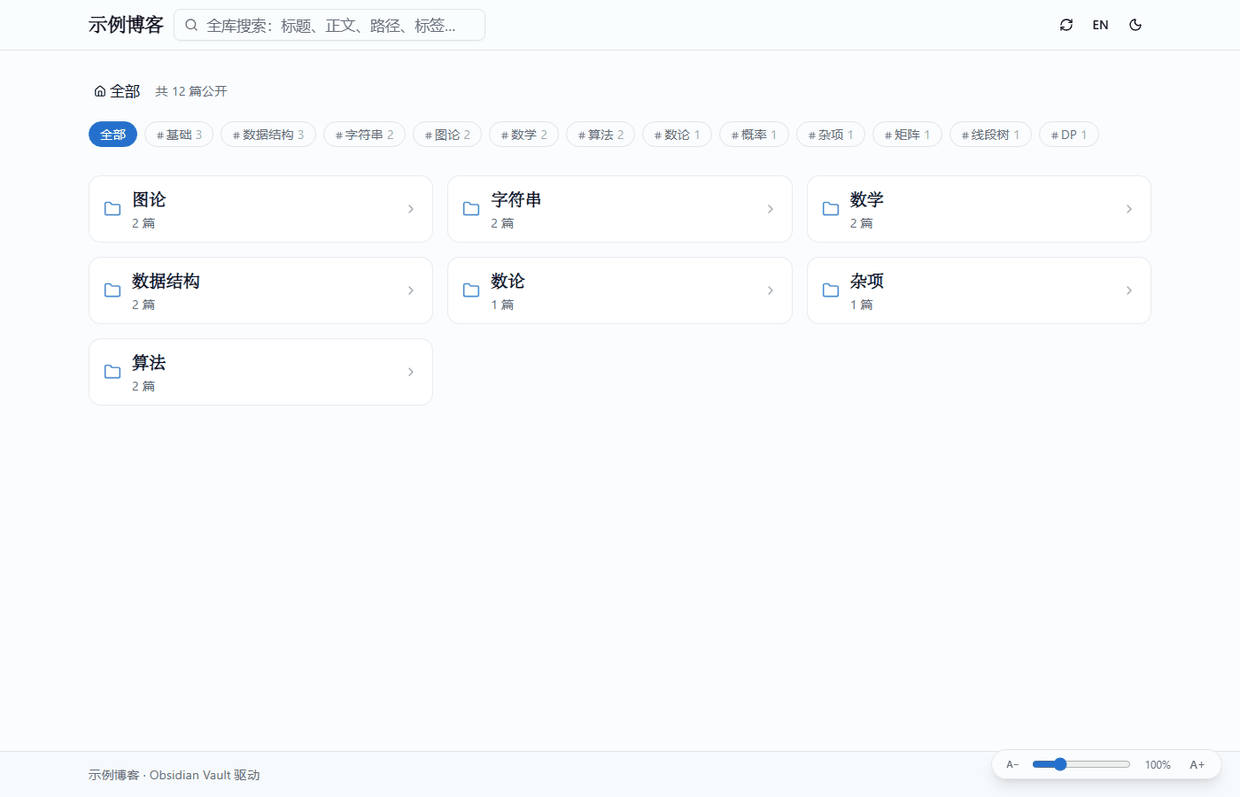
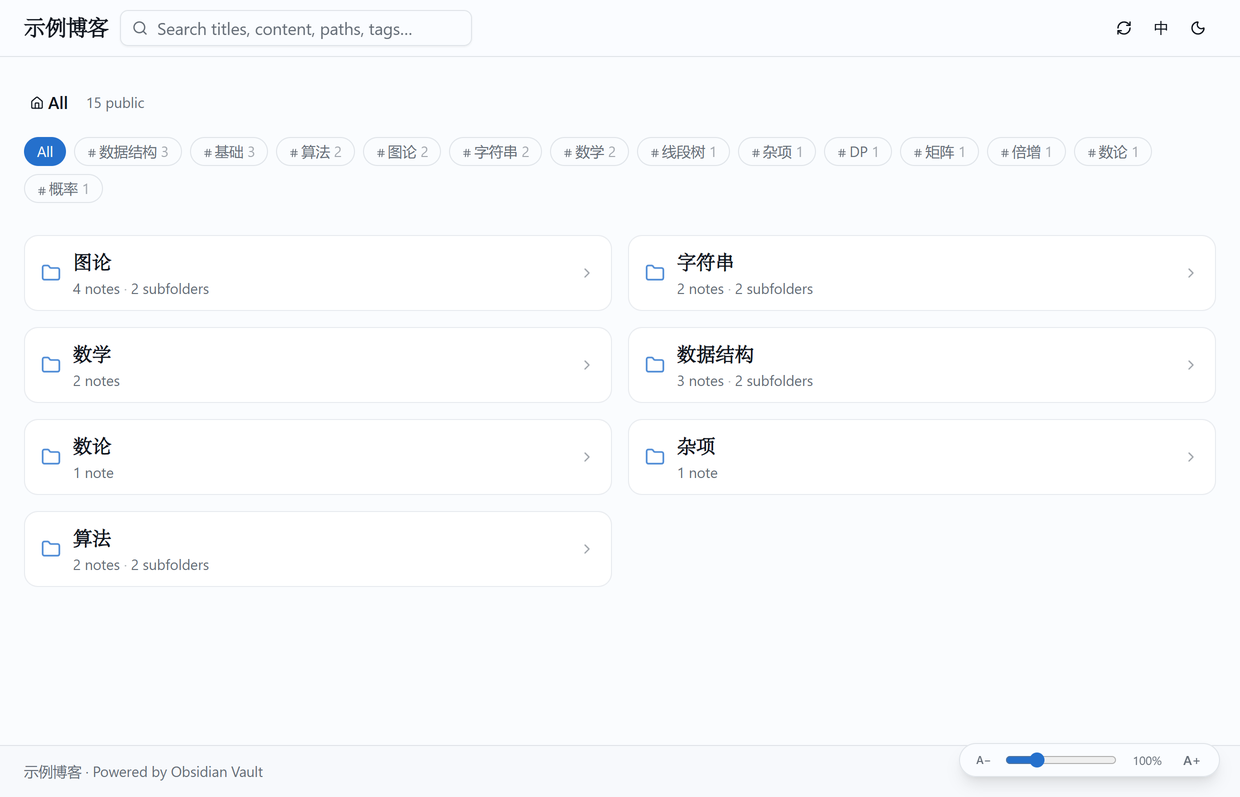
docs: 重拍 README 截图，反映公开开关已移到 Obsidian 文件树
- manager/theme 改为插件内嵌视图实拍，不再有搜索框与文件夹网格
- 中英各一套：docs/screenshots/ 英文，docs/screenshots/zh/ 中文
- 功能表去掉搜索筛选与折叠两项旧网格功能，逐篇开关/批量操作改述为文件树里操作

diff --git a/README.zh.md b/README.zh.md
@@ -4,9 +4,9 @@
 
 把 Obsidian 笔记发布成 GitHub Pages 静态博客。
 
-不用为了发布另建一个库：私人笔记和公开笔记放在一起，公开与否只是 frontmatter 里的一个 `public: true`。发布器逐篇勾选、一键推送，站点由 GitHub Actions 自动构建部署。
+不用为了发布另建一个库：私人笔记和公开笔记放在一起，公开与否只是 frontmatter 里的一个 `public: true`。在 Obsidian 文件树里点开笔记右边的开关，回到发布器一键推送，站点由 GitHub Actions 自动构建部署。
 
-![博客首页](docs/screenshots/home.png)
+![博客首页](docs/screenshots/zh/home.png)
 
 ## 优势一览
 
@@ -73,21 +73,19 @@
 
 ### 3. 选笔记并发布
 
-打开要公开的笔记的开关，点「⟳ 发布到 GitHub」。等 1~2 分钟，访问 `https://你的用户名.github.io/仓库名/`。
+在 Obsidian 文件树里打开要公开的笔记右边的开关，然后点「⟳ 发布到 GitHub」。等 1~2 分钟，访问 `https://你的用户名.github.io/仓库名/`。
 
 ## 发布器界面
 
 点左侧栏的图标，或命令面板里的「打开博客发布器」，主区域会开一个标签页。界面的语言与明暗跟随 Obsidian。
 
-![博客发布器](docs/screenshots/manager.png)
+![博客发布器](docs/screenshots/zh/manager.png)
 
 | 功能 | 说明 |
 |---|---|
 | 单库 | 一个 Obsidian 库对应一个博客。首屏只有一行信息条：库名 · 仓库 · 篇数 · 打开网页 · 设置 |
-| 逐篇开关 | 每篇一个开关，写进 frontmatter，改完提示「已把《标题》设为公开」 |
-| 批量操作 | 文件夹标题栏有「全部公开 / 全部私密」，顶部另有全局按钮 |
-| 搜索筛选 | 按标题和路径过滤，先筛再批量 |
-| 折叠 | 每个文件夹可收起，另有「一键展开 / 一键收起」 |
+| 逐篇开关 | 就在 Obsidian 自带的文件树里：每篇笔记右边一个「公开 / 私密」小开关，写进 frontmatter。发布器里不再另做一份文件树 |
+| 批量操作 | 文件树的每个文件夹行上有「全部公开 / 全部私密」和一个 `3/3` 计数，点一下整个文件夹一起翻 |
 | 变更三栏 | 新增 / 修改 / 删除三类改动分三栏列出，新增的可以在这一栏直接开公开开关。只列**需要你手动处理**的：自动同步开关开着的类别由后台自己发，不进三栏；如果最近一次自动同步推送失败，那几类会重新回到三栏提醒 |
 | 自动同步 | 三类改动各一个开关，勾选后该类改动自动发布，不必再点「发布」；默认「修改」开，「新增 / 删除」关。改了文件约 2.5 秒后自动提交推送，但**只在 Obsidian 开着时生效** |
 | 同步流水 | 自动同步那一行下方列出最近几次后台动作：开始推送的时刻、动了哪些文件、推没推上去、成功更新的时刻、两者相隔多久。推送失败、构建失败、构建超时都各留一条记录。存本地配置，重启不丢 |
@@ -102,7 +100,7 @@
 
 发布器右上角点「外观」，从下拉框里选一套预设（鼠标停在名字上能看简介，选中后下方显示这套的**预览图**），它会填进编辑框，再改成自己的。自己写的 CSS 无法预渲染，所以选「自定义」时不显示预览图。
 
-![外观面板](docs/screenshots/theme.png)
+![外观面板](docs/screenshots/zh/theme.png)
 
 ### 内置预设
 
@@ -159,7 +157,7 @@ body { font-family: "Songti SC", Georgia, serif; }
 
 阅读体验以复刻 Obsidian 的呈现为目标。
 
-![笔记页](docs/screenshots/note.png)
+![笔记页](docs/screenshots/zh/note.png)
 
 ### 首页
 
@@ -363,7 +361,7 @@ obsidian-blog-publisher/
 ├── .github/
 │   ├── workflows/deploy.yml     CI：站点仓库构建部署 / 插件仓库类型检查+打包
 │   └── ISSUE_TEMPLATE/          issue 模板
-├── docs/screenshots/            README 用的截图
+├── docs/screenshots/            README 用的截图（英文；`zh/` 是中文那一套）
 │
 ├── scripts/
 │   ├── manager-core.mjs         ★ 发布内核（HTTP 服务 + 全部接口，插件与本地调试共用）

diff --git a/README.md b/README.md
@@ -4,7 +4,7 @@
 
 Publish your Obsidian notes as a static blog on GitHub Pages.
 
-You don't need a second vault. Private and public notes live together — going public is just `public: true` in the frontmatter. Toggle notes one by one in the publisher, push once, and GitHub Actions builds and deploys the site.
+You don't need a second vault. Private and public notes live together — going public is just `public: true` in the frontmatter. Flip the switch next to a note in Obsidian's file explorer, push once, and GitHub Actions builds and deploys the site.
 
 ![Blog home](docs/screenshots/home.png)
 
@@ -73,7 +73,7 @@ Set the expiration to "No expiration". An expired token makes publishing, repo c
 
 ### 3. Pick notes and publish
 
-Turn on the switch for the notes you want public, then click "⟳ Publish to GitHub". Wait 1–2 minutes and visit `https://<your-username>.github.io/<repo-name>/`.
+Turn on the switch next to the notes you want public in Obsidian's file explorer, then click "⟳ Publish to GitHub". Wait 1–2 minutes and visit `https://<your-username>.github.io/<repo-name>/`.
 
 ## The publisher
 
@@ -84,10 +84,8 @@ Click the icon in the left ribbon, or run "Open Blog Publisher" from the command
 | Feature | Description |
 |---|---|
 | Single vault | One Obsidian vault maps to one blog. The top row shows vault name · repo · note count · open site · settings |
-| Per-note toggle | One switch per note, written into the frontmatter. Confirms with "Set *title* to public" |
-| Bulk actions | "Publish all / Make all private" on every folder header, plus global buttons at the top |
-| Search and filter | Filter by title and path; narrow down first, then act in bulk |
-| Collapse | Every folder collapses; "Expand all / Collapse all" for the whole tree |
+| Per-note toggle | In Obsidian's own file explorer: one Public/Private switch per note, written into the frontmatter. There is no second file tree inside the publisher |
+| Bulk actions | Every folder row carries "Publish all / Make all private" and a count like `3/3`, so a whole folder flips in one click |
 | Three change columns | Added / modified / deleted are listed separately, and added notes can be made public right there. Only changes **you need to handle** appear — categories with auto-sync on are pushed by the background process and drop out of these columns; if the last auto-sync push failed, those categories come back |
 | Auto-sync | One switch per change category. When on, that category publishes itself without pressing Publish. Default: modified on, added/deleted off. Fires about 2.5 seconds after a file changes, but **only while Obsidian is running** |
 | Sync log | Below the auto-sync row, the last few background actions: when the push started, which files changed, whether it landed, when the site finished updating, and the gap between. Failed pushes, failed builds, and build timeouts each leave a record. Stored locally, survives restarts |
@@ -363,7 +361,7 @@ obsidian-blog-publisher/
 ├── .github/
 │   ├── workflows/deploy.yml     CI: build+deploy in a site repo, typecheck+bundle in the plugin repo
 │   └── ISSUE_TEMPLATE/          issue templates
-├── docs/screenshots/            screenshots used by the READMEs
+├── docs/screenshots/            screenshots used by the READMEs (English; `zh/` holds the Chinese set)
 │
 ├── scripts/
 │   ├── manager-core.mjs         ★ publishing core (HTTP server + all endpoints, shared by plugin and local debugging)
